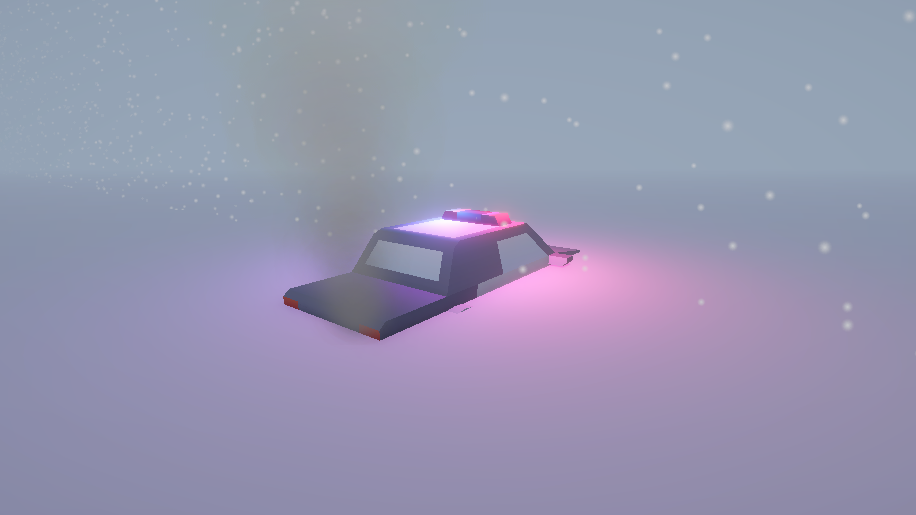
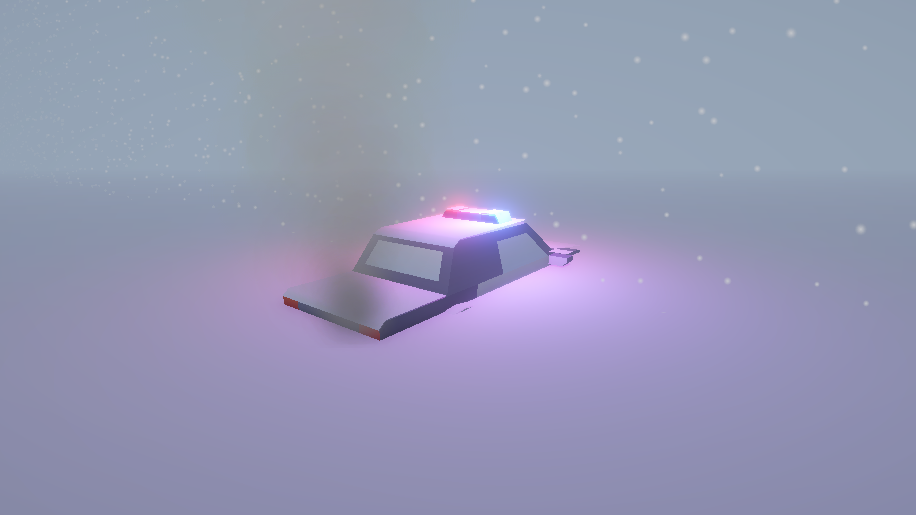
feat: nieve acumulada en el coche y nevada ligera en toda la escena
Genera Car_Mesh/Snow_Cap como malla derivada del cuerpo del coche (caras orientadas hacia arriba, mas espesor en el capo y el frontal). Baja la intensidad y la velocidad de Global_Blizzard y amplia su volumen a 100x100 m.

Changed region(s): [[0.3057, 0.3728, 0.7336, 0.6524], [0.917, 0.6214, 0.9476, 0.6524], [0.8865, 0.466, 0.917, 0.4971]]

diff --git a/README.md b/README.md
@@ -49,6 +49,9 @@ sigue encendido (humo en el escape), las sirenas giran y la ventisca arrecia sob
 - [x] Niebla y ambiente nocturno de ventisca
 - [x] Modelo 3D del coche: patrulla low-poly de Kenney (CC0) con material propio
       (`Assets/Models/PoliceCar_Mat.mat`)
+- [x] Nieve acumulada sobre el coche (`Car_Mesh/Snow_Cap`): malla generada a partir del
+      propio modelo, más gruesa en el capó y la parte frontal
+- [x] Nevada ligera y uniforme en toda la escena (partículas lentas, ~100 × 100 m)
 
 ## Autor
 
